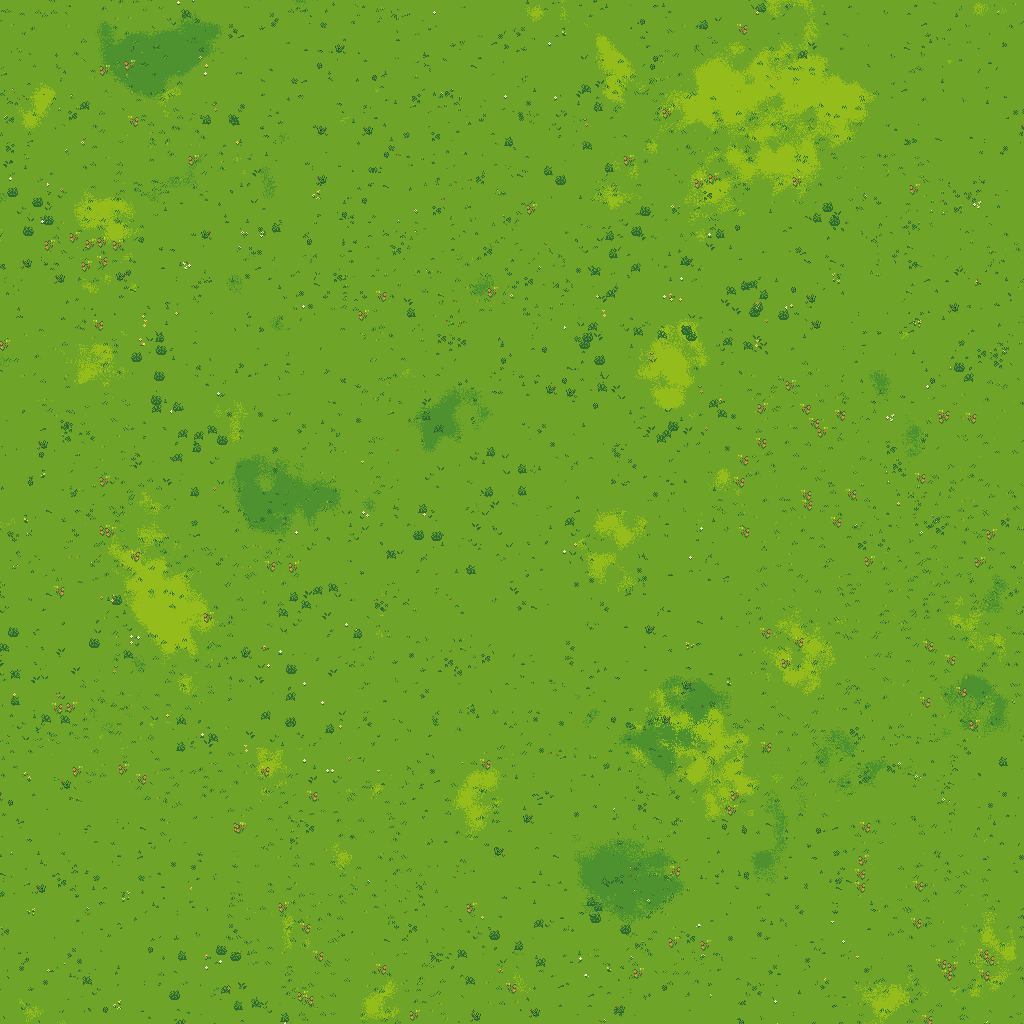
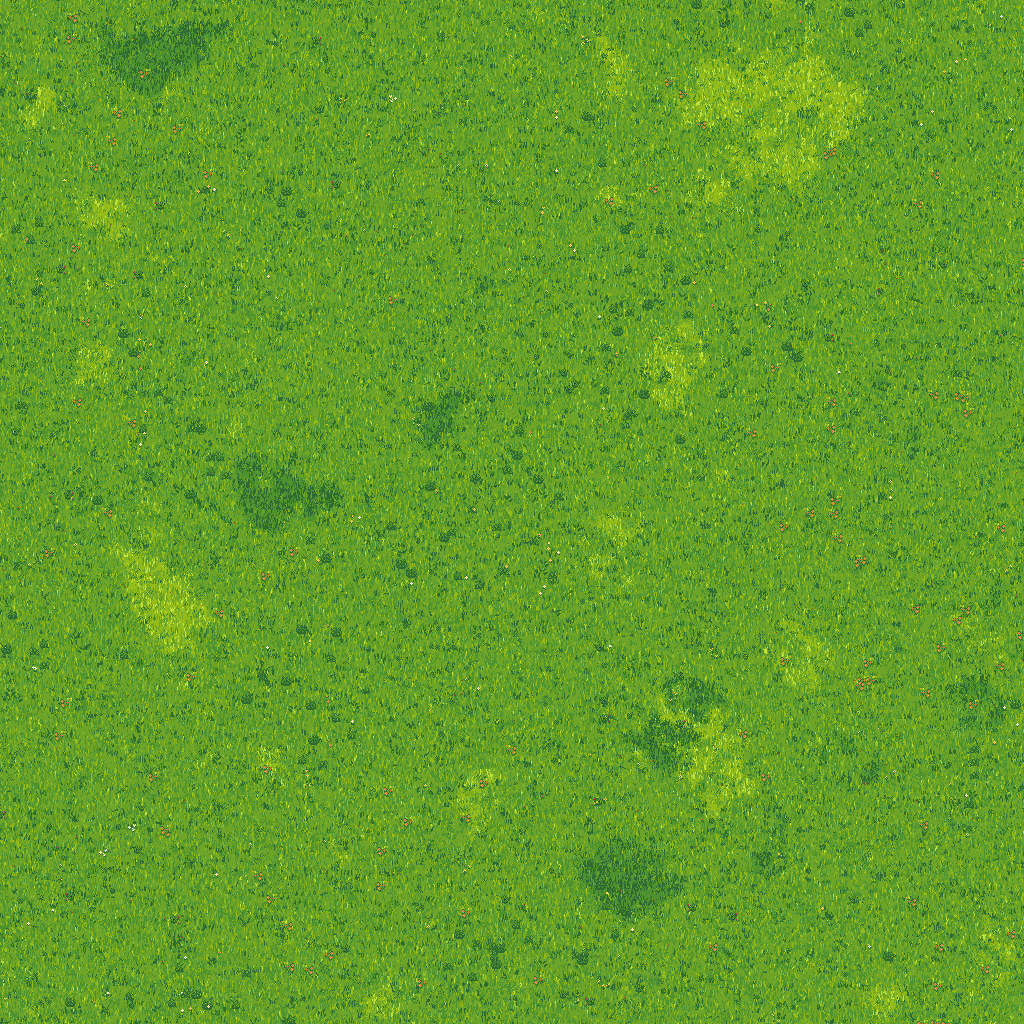
lanskap: rumput dasar bertekstur rumpun helai (palet 47), tidak polos
Claude-Session: https://claude.ai/code/session_01Bh7MyzyAsPj6aNVrh74d4r

diff --git a/tools/lanskap/bake_luas.py b/tools/lanskap/bake_luas.py
@@ -57,6 +57,46 @@ for f_,thr,tone in ((shade_f,0.62,G_SHADE),):
         h=int(rng.integers(2,5))
         if y-h>0: img[y-h:y,x]=tone
 del shade_f
+# ---- tekstur helai rumput rapat di seluruh permukaan (bukan polos) ----
+LADDER=np.array([[0x1E,0x3F,0x2B],[0x2F,0x6A,0x32],[0x4E,0x91,0x2F],[0x6E,0xA4,0x27],[0x94,0xBD,0x1B],[0xBF,0xE3,0x3E]],np.uint8)
+def tone_index(px):
+    d=np.abs(px[:,None,:].astype(int)-LADDER[None].astype(int)).sum(2); return d.argmin(1)
+def blades_texture(n_per_px,dark):
+    n=int(W*H*n_per_px)
+    ys=rng.integers(4,H,n); xs=rng.integers(1,W-1,n)
+    L=rng.integers(2,5 if dark else 4,n)              # panjang helai 2-4 px
+    lean=rng.choice([-1,0,0,0,1],n)                    # sebagian ujung miring
+    ti=tone_index(img[ys,xs])
+    ti=np.clip(ti+(-1 if dark else 1),0,len(LADDER)-1)
+    if dark:  # jangan pakai hijau paling gelap kecuali di area teduh pekat
+        ti=np.where(ti==0,1,ti)
+    col=LADDER[ti]
+    for k in range(4):
+        m=L>k
+        yk=ys[m]-k; xk=xs[m]+np.where(k==L[m]-1,lean[m],0)
+        img[yk,xk]=col[m]
+def tufts(n_per_px):
+    """rumpun helai: 4-7 helai mekar dari satu pangkal; helai belakang gelap, depan terang"""
+    n=int(W*H*n_per_px)
+    cy=rng.integers(6,H,n); cx=rng.integers(4,W-4,n)
+    base_t=tone_index(img[cy,cx])
+    for b in range(7):
+        use=rng.random(n)<(1.0 if b<4 else 0.5)
+        off=rng.integers(-3,4,n)                       # posisi helai di sekitar pangkal
+        L=rng.integers(2,6,n)
+        lean=np.sign(off)*(rng.random(n)<0.6)          # helai pinggir condong keluar
+        front=(np.abs(off)<=1)&(rng.random(n)<0.55)
+        ti=np.clip(base_t+np.where(front,1,-1),1,len(LADDER)-1)
+        col=LADDER[ti]
+        yb=cy-rng.integers(0,2,n)
+        for k in range(5):
+            m=use&(L>k)
+            yk=yb[m]-k; xk=cx[m]+off[m]+np.where(k>=L[m]-2,lean[m],0)
+            img[yk,np.clip(xk,0,W-1)]=col[m]
+blades_texture(1/14,True)      # sela gelap tipis di antara rumpun
+tufts(1/34)                    # rumpun-rumpun helai
+blades_texture(1/40,False)     # kilau terang sesekali
+
 def stamp(s,x,y):
     h,w=s.shape[:2]
     if x<0 or y<0 or x+w>W or y+h>H: return
